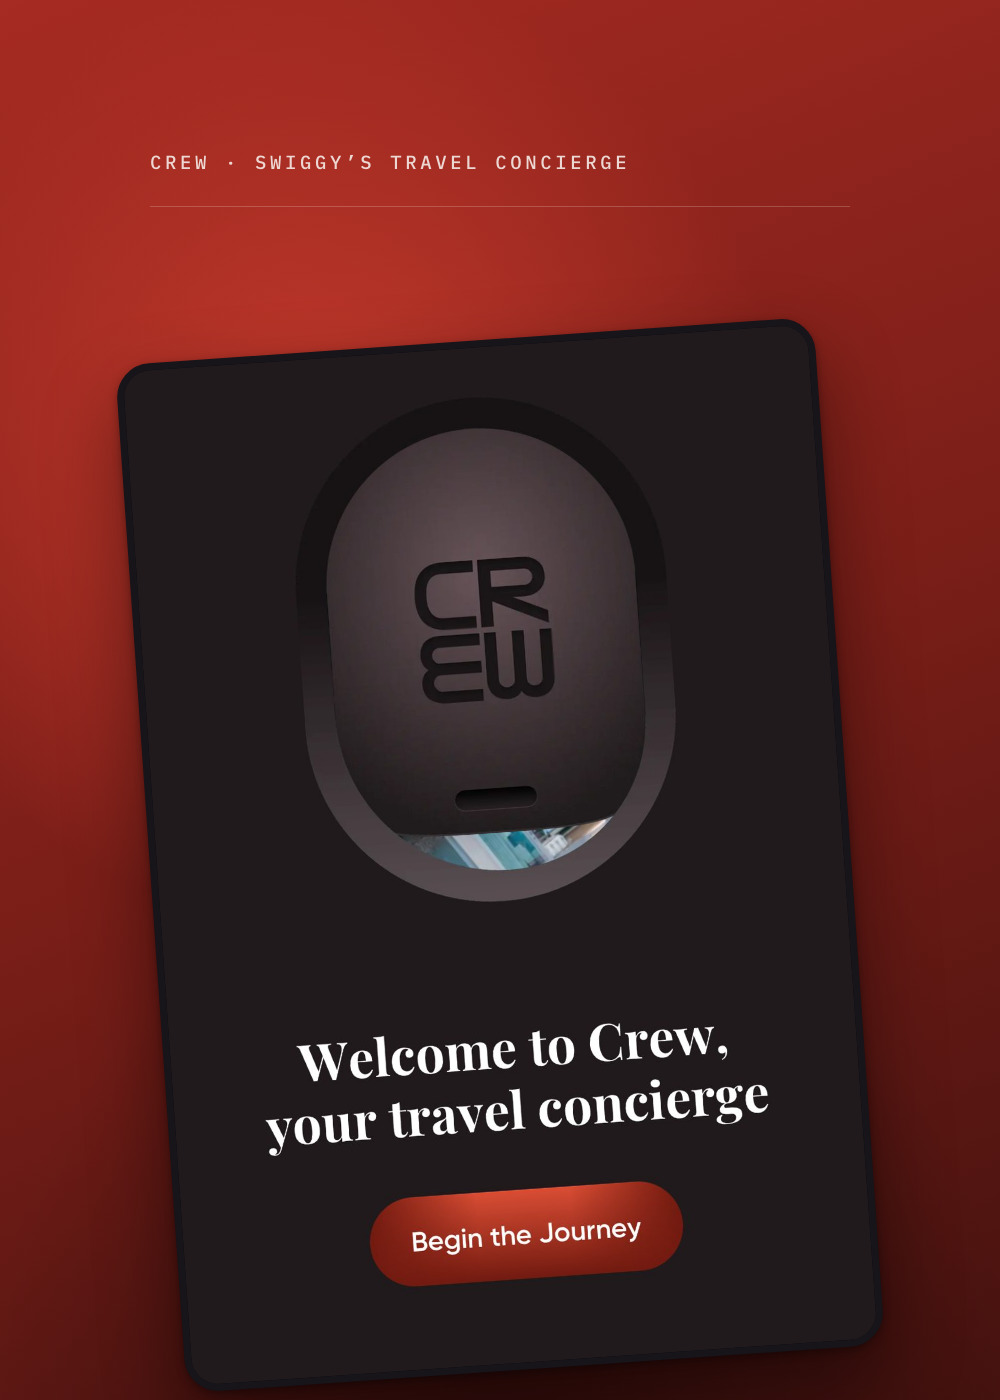
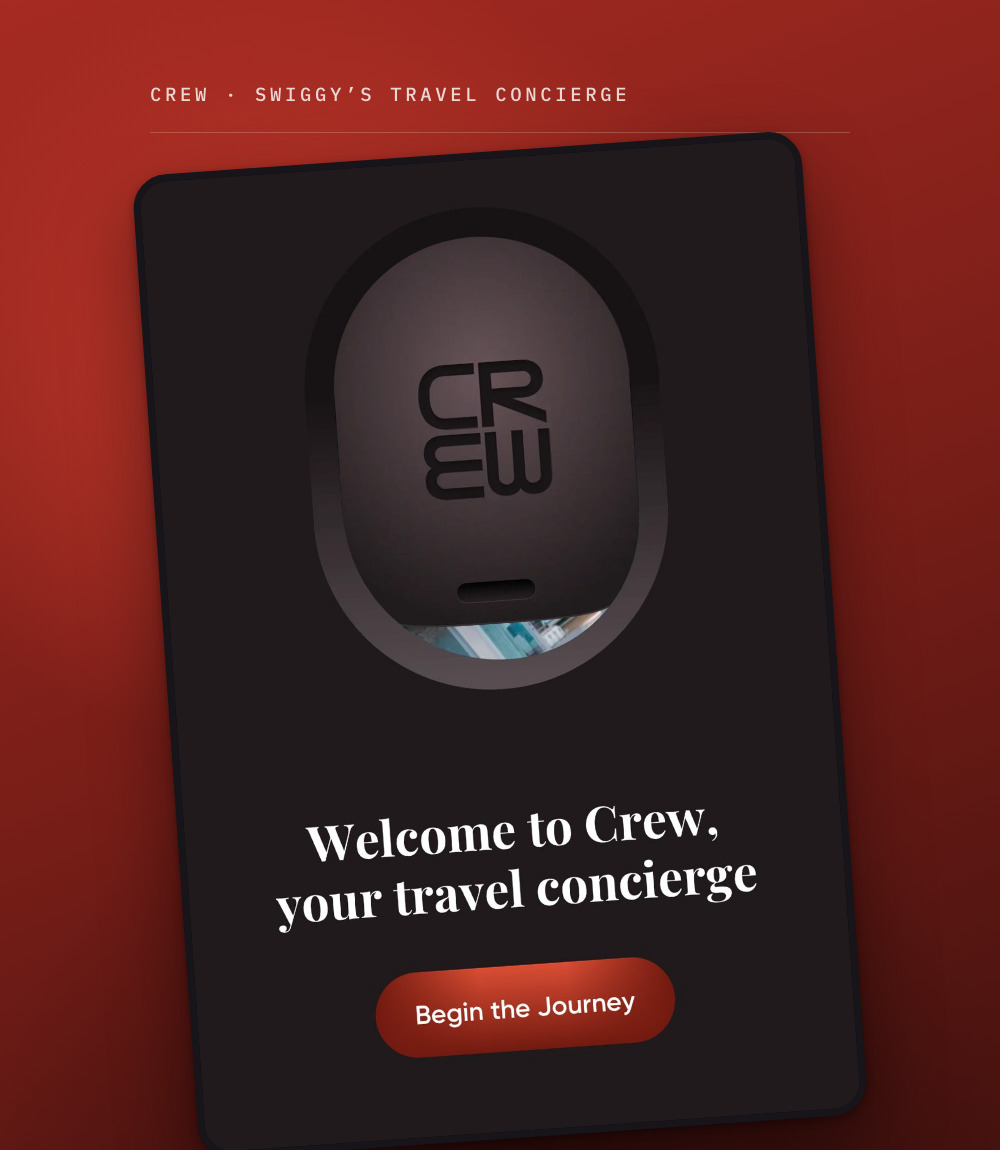
Retune the card art's frame to the card it now sits in
The art was 1000x1400, a shape chosen for a written card carrying four
PDEO rows. That card no longer exists — a published one is a title and
a two-line lead, about 280px of text — so a 525px image was setting the
height and leaving a dead quarter under the button. The card stood
583px, taller than either study beside it, and the largest thing on it
was the empty part.

Now 1000x1150. At the ~376px the slot resolves to, the art renders
433px and the card comes to 490px, which puts it between YouTube at 457
and Reddit at 504.

Cropping the old frame was the wrong fix: the phone spans 24% to 98% of
it, so any vertical trim cuts the device itself. The height came out of
the empty band above the phone instead — it now starts at 13% rather
than 24%. The product is no smaller; the emptiness is. File drops from
104KB to 94KB.

Also bumped the cache-buster, since the filename is unchanged and the
old frame would otherwise keep showing.

Verified 390 / 768 / 1024 / 1440: no overflow, art still leads above
the text when stacked.

Changed region(s): [[0.093, 0.0609, 0.899, 1.0], [0.248, 0.7, 0.775, 0.913]]

diff --git a/index.html b/index.html
@@ -563,7 +563,7 @@
                the headline link beside it already names the destination, so an alt
                string here would only make a screen reader read the card twice. -->
           <figure class="card-art">
-            <img src="assets/og/crew-card.jpg" alt="" width="1000" height="1400" loading="lazy" decoding="async" />
+            <img src="assets/og/crew-card.jpg?v=2" alt="" width="1000" height="1150" loading="lazy" decoding="async" />
           </figure>
         </div>
       </div>

diff --git a/tools/og-card.py b/tools/og-card.py
@@ -174,7 +174,7 @@ def field_bg(stops, bloom):
 
 # Layout size per variant, in CSS pixels. Read by both the CSS and the Chrome window,
 # so they cannot disagree.
-SIZES = {"og": (1200, 630), "square": (1200, 1200), "card": (1000, 1400)}
+SIZES = {"og": (1200, 630), "square": (1200, 1200), "card": (1000, 1150)}
 
 # Device pixel ratio the screenshot is taken at, so the PNG comes out SIZES x DPR.
 # The layout is unchanged — this only decides how many real pixels each CSS pixel
@@ -398,22 +398,34 @@ def square(a):
 
 
 def card(a):
-    """1000x1400 — the hero inside the homepage card. All field, no paper: it sits
+    """1000x1150 — the hero inside the homepage card. All field, no paper: it sits
     on a cream card, so a cream image would have no edge.
 
-    Geometry is set by how object-fit:cover will treat it. The slot is one column of
-    a 1.45fr/1fr grid, so ~400px wide, but its height comes from the card's own copy
-    — a four-row PDEO card is far taller than CREW's single lead paragraph. So the
-    aspect varies, and cover crops whichever axis is surplus:
+    The frame was 1000x1400 (0.71), sized for a written card carrying four PDEO rows.
+    Once a published card was cut to a title and a two-line lead, its text column ran
+    about 280px while the art rendered 525px, so the card stood 583px with a dead
+    quarter under the button — the tallest thing on it was the empty half of it.
 
-        slot 0.71 (400x560)  nominal, matches this frame — nothing is cropped
+    0.87 is the shape that balances that: at the ~376px the slot resolves to, the art
+    lands about 433px, the card comes to roughly 500px, and it sits level with the
+    other two studies instead of towering over its own text.
+
+    The height did not just come off the bottom. The phone began 24% down, so the
+    frame opened with a band of bare gradient; it now starts at 13% and runs to 98%,
+    which is most of the reduction. The product got no smaller — the emptiness did.
+
+    Geometry is still set by how object-fit:cover will treat it. Slot height comes
+    from the card's own copy, so the aspect varies and cover crops whichever axis is
+    surplus:
+
+        slot 0.87 (400x460)  nominal, matches this frame — nothing is cropped
         slot 0.55 (400x730)  height binds; 115px comes off each side
-        slot 0.85 (400x470)  width binds; 176px comes off top and bottom
+        slot 1.10 (400x364)  width binds; 145px comes off top and bottom
 
     Hence the 150px side inset on every piece of text: 35px clear of the worst-case
-    horizontal trim, so nothing clips mid-word or crowds the edge inside that band. Vertically the
-    byline and signature are the pieces that yield first, which is why neither
-    carries meaning the quote doesn't already.
+    horizontal trim, so nothing clips mid-word or crowds the edge inside that band.
+    Vertically the byline and signature are the pieces that yield first, which is why
+    neither carries meaning the quote doesn't already.
 
     The bloom also sits at 32% rather than the 12% the full-bleed variants use — up
     there it fell outside the crop entirely, leaving a gradient with no visible
@@ -421,14 +433,14 @@ def card(a):
     has_quote = bool(a.get("quote"))
     extra = """
     .field{inset:0}
-    .byline{font-size:19px;left:150px;top:150px;letter-spacing:.19em;
+    .byline{font-size:19px;left:150px;top:82px;letter-spacing:.19em;
       color:rgba(247,239,234,.88)}
-    .rule{position:absolute;left:150px;right:150px;top:206px;
+    .rule{position:absolute;left:150px;right:150px;top:132px;
       background:rgba(247,239,234,.22)}
-    .phone{width:700px;height:1030px;left:150px;top:340px;transform:rotate(-4deg)}
-    .tile{width:430px;height:430px;border-radius:98px;left:285px;top:346px}
-    .quote{font-size:58px;left:150px;top:900px;width:700px}
-    .foot{position:absolute;left:150px;bottom:150px;gap:24px;align-items:center;
+    .phone{width:670px;height:986px;left:165px;top:152px;transform:rotate(-4deg)}
+    .tile{width:430px;height:430px;border-radius:98px;left:285px;top:290px}
+    .quote{font-size:58px;left:150px;top:700px;width:700px}
+    .foot{position:absolute;left:150px;bottom:96px;gap:24px;align-items:center;
       justify-content:flex-start}
     .sig{height:36px;color:#F5EBE6}
     .site{color:rgba(245,235,230,.66);font-size:17px}

diff --git a/PREVIEW_IMAGES_PLAYBOOK.md b/PREVIEW_IMAGES_PLAYBOOK.md
@@ -46,7 +46,7 @@ Three variants per article, named `<slug>-<variant>.jpg`, in `assets/og/`. Today
 |---|---|---|---|
 | `<slug>-og.jpg` | 2400 × 1260 | ~215–250 KB | Link previews. Slack, WhatsApp, LinkedIn, X, iMessage. |
 | `<slug>-square.jpg` | 2400 × 2400 | ~320–385 KB | LinkedIn image posts, Instagram. Posted by hand. |
-| `<slug>-card.jpg` | 1000 × 1400 | ~96–117 KB | Hero inside the Product Thinking card on the homepage. |
+| `<slug>-card.jpg` | 1000 × 1150 | ~94–115 KB | Hero inside the Product Thinking card on the homepage. |
 
 **Only `-og.jpg` is wired into a page.** It sits in the `<meta>` tags of the article and
 is fetched automatically by every platform. The other two are placed by hand — you upload
@@ -235,13 +235,13 @@ The slot is filled with `object-fit: cover`, which crops whichever axis is surpl
 
 | Slot shape | What gets cut |
 |---|---|
-| 0.71 — about 400 × 560, the normal case | Nothing. The art matches this exactly. |
+| 0.87 — about 400 × 460, the normal case | Nothing. The art matches this exactly. |
 | 0.55 — a tall card | 115 px off **each side** |
-| 0.85 — a short card | 176 px off top **and** bottom |
+| 1.10 — a short card | 145 px off top **and** bottom |
 
 So:
 
-- The canvas is **1000 × 1400**, which is 0.71. No crop at the expected size.
+- The canvas is **1000 × 1150**, which is 0.87. No crop at the expected size.
 - **Every piece of text sits 150 px in from the left and right edges.** That is 35 px
   clear of the worst side trim. Text at a 72 px inset was being sliced mid-word.
 - The bloom sits at **32% down**, not the 12% the full-bleed variants use. At 12% it fell
@@ -362,7 +362,7 @@ The CREW card carries `crew-card.jpg` in a restored media column:
 <div class="card written with-art reveal" data-project="crew">
   …
   <figure class="card-art">
-    <img src="assets/og/crew-card.jpg" alt="" width="1000" height="1400" loading="lazy" decoding="async" />
+    <img src="assets/og/crew-card.jpg?v=2" alt="" width="1000" height="1150" loading="lazy" decoding="async" />
   </figure>
 ```
 
